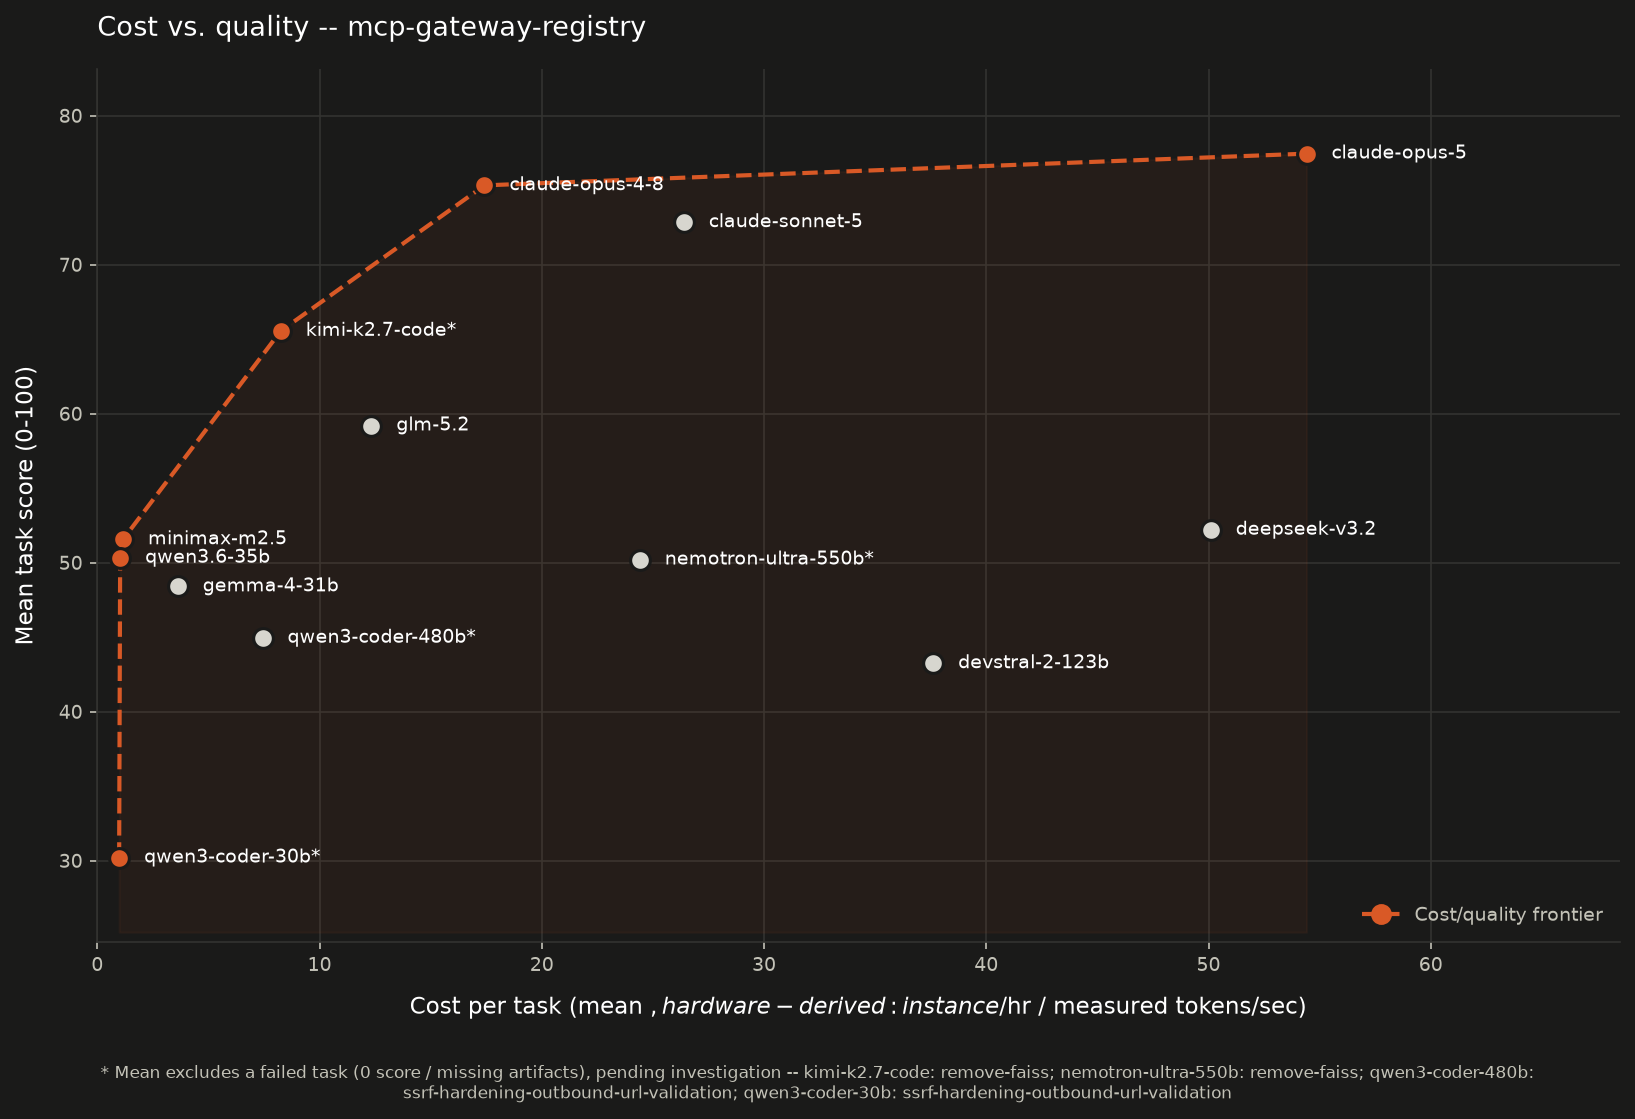
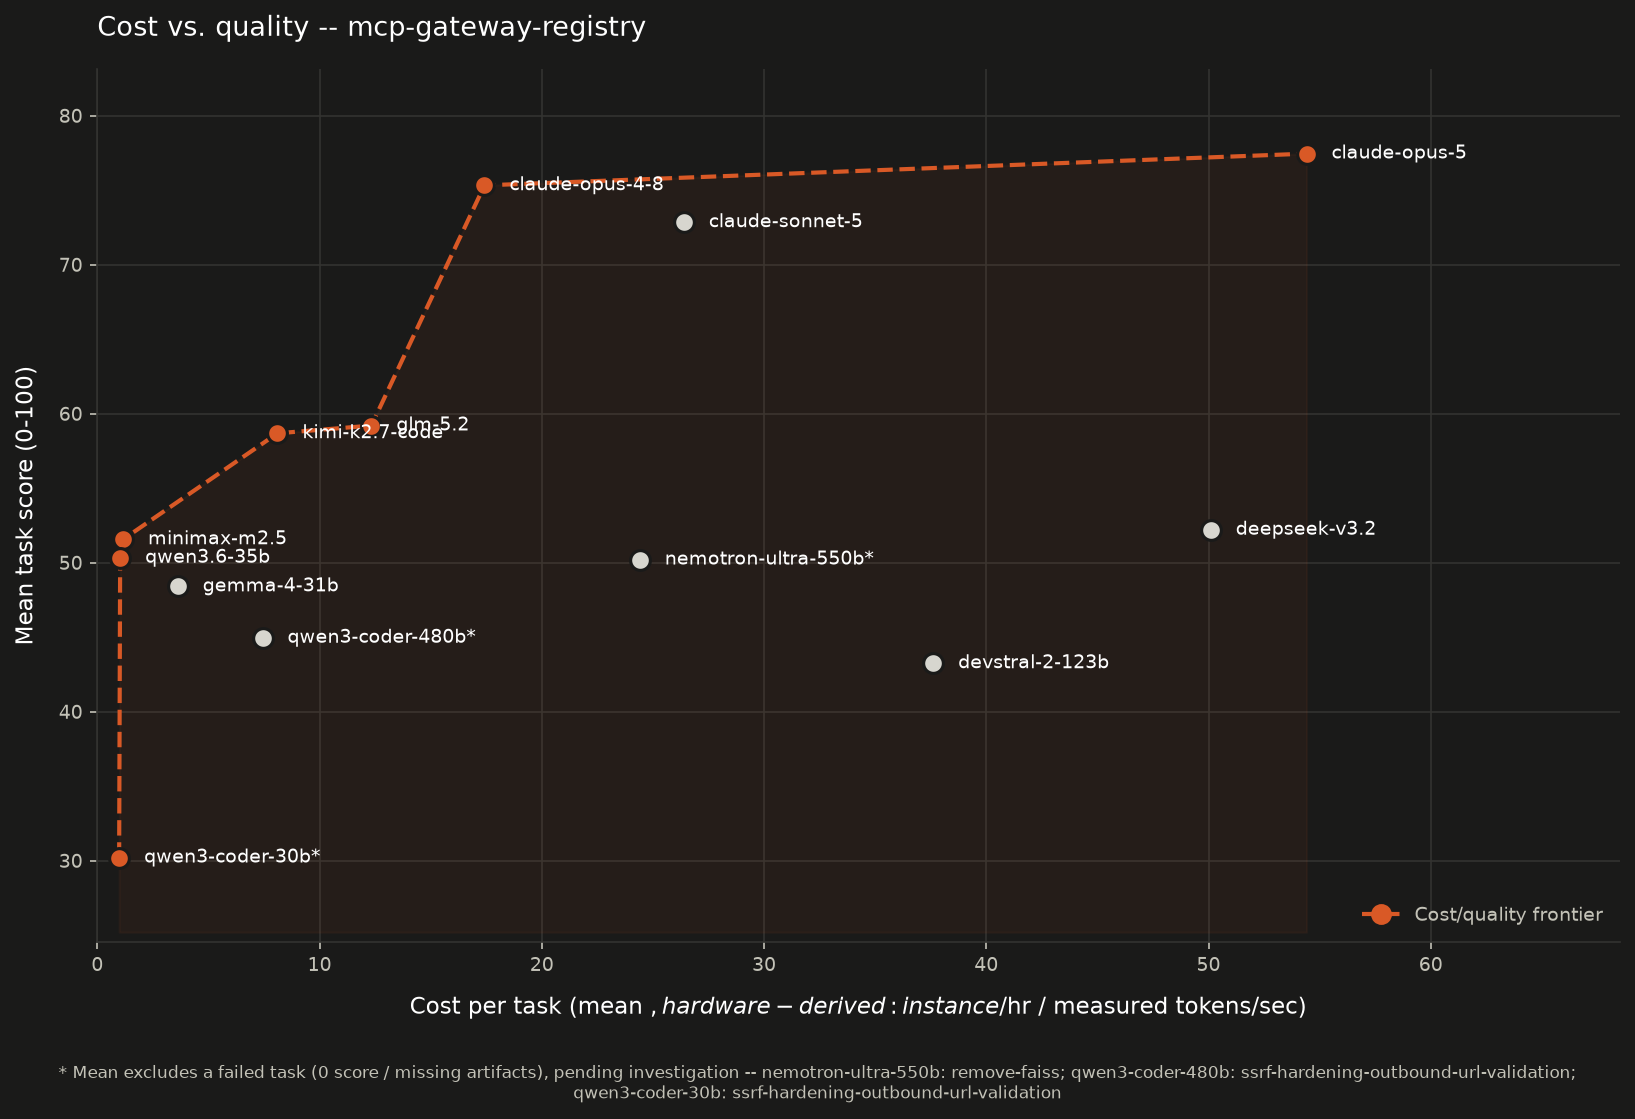
README: update Kimi-K2.7-Code to re-run results (58.68, 5/5, 0 failures)
PR #49 re-ran Kimi-K2.7-Code with a workflow prompt hint. All 5 tasks now
complete (previously 1 failure on remove-faiss), so:

- Score moves 65.55 (4/5) -> 58.68 (5/5). remove-faiss goes from a 0-score
  failure to a scored 55.2; per-task cells refreshed (migrate 67.6, remove-efs
  63.4, ssrf 56.4, remove-faiss 55.2, keycloak 50.8).
- Kimi now ranks below GLM-5.2 (59.20), so the results table column and the
  leaderboard row are reordered; GLM-5.2 is now the top open-weight model.
- Hardware note updated: two tasks (ssrf, remove-faiss) hit the 251 max-turns
  cap at the 128K window but still produced scoreable artifacts (no failure).
- Cost/quality frontier grows to 7 points (GLM-5.2 joins); both charts
  regenerated. Footnotes 5 and 6 and the narrative refreshed accordingly.

The k2.5 sanity-only directory (moonshotai.kimi-k2.5) is unaffected; it has no
benchmark results and does not appear in the README or chart.

diff --git a/README.md b/README.md
@@ -32,36 +32,36 @@ To show what the harness produces, we ran it against [agentic-community/mcp-gate
 
 ![Cost vs. quality scatter: mean estimated cost per task against mean task score, for the self-hosted models, with the cost/quality frontier highlighted](docs/images/cost-quality.png)
 
-Mean cost per task (x) against mean task score (y), one point per model. For **self-hosted** models with a throughput sweep, cost is **hardware-derived**: the model's blended cost per token (instance $/hr / measured tokens/sec, see [cost-per-task-methodology.md](self-hosted/vllm/cost-per-task-methodology.md)) times its *actual* input+output tokens per task, averaged over non-failed tasks. The three **Anthropic** points (Opus-5, Opus-4.8, Sonnet-5) are **real token-metered Bedrock bills**; **DeepSeek-V3.2**, **Nemotron-Ultra-550B**, and **Devstral-2-123B** have no sweep so use a token-priced estimate (`‡`) -- comparable as spend, different in kind. The cost/quality frontier runs **Qwen3-Coder-30B ($0.98 / 30.20) -> Qwen3.6-35B ($1.03 / 50.32) -> MiniMax-M2.5 ($1.16 / 51.56) -> Kimi-K2.7-Code ($8.26 / 65.55) -> Claude-Opus-4.8 ($17.42 / 75.32) -> Claude-Opus-5 ($54.41 / 77.45)**. Everything else is **dominated**: notably Claude-Sonnet-5 (72.84 but $26.39), GLM-5.2 (59.20 at $12.33, beaten by Kimi on both axes), Gemma-4-31B, Qwen3-Coder-480B ($7.43), Devstral-2-123B ($37.61 est.), Nemotron-Ultra-550B, and DeepSeek-V3.2 ($50.10 est., the priciest). Opus-5 is the top-quality point but its $54.41/task makes it the frontier's expensive extreme -- Opus-4.8 delivers nearly the same quality for a third of the cost. Qwen3-Coder-Next is omitted (not viable on this node). A model's mean excludes any 0-score failed task (footnote ⁵). Regenerate with `uv run scripts/plot_cost_quality.py` (add `--dark`) from `benchmarks/`.
+Mean cost per task (x) against mean task score (y), one point per model. For **self-hosted** models with a throughput sweep, cost is **hardware-derived**: the model's blended cost per token (instance $/hr / measured tokens/sec, see [cost-per-task-methodology.md](self-hosted/vllm/cost-per-task-methodology.md)) times its *actual* input+output tokens per task, averaged over non-failed tasks. The three **Anthropic** points (Opus-5, Opus-4.8, Sonnet-5) are **real token-metered Bedrock bills**; **DeepSeek-V3.2**, **Nemotron-Ultra-550B**, and **Devstral-2-123B** have no sweep so use a token-priced estimate (`‡`) -- comparable as spend, different in kind. The cost/quality frontier runs **Qwen3-Coder-30B ($0.98 / 30.20) -> Qwen3.6-35B ($1.03 / 50.32) -> MiniMax-M2.5 ($1.16 / 51.56) -> Kimi-K2.7-Code ($8.10 / 58.68) -> GLM-5.2 ($12.33 / 59.20) -> Claude-Opus-4.8 ($17.42 / 75.32) -> Claude-Opus-5 ($54.41 / 77.45)**. Everything else is **dominated**: notably Claude-Sonnet-5 (72.84 but $26.39), Gemma-4-31B, Qwen3-Coder-480B ($7.43), Devstral-2-123B ($37.61 est.), Nemotron-Ultra-550B, and DeepSeek-V3.2 ($50.10 est., the priciest). Opus-5 is the top-quality point but its $54.41/task makes it the frontier's expensive extreme -- Opus-4.8 delivers nearly the same quality for a third of the cost. Qwen3-Coder-Next is omitted (not viable on this node). A model's mean excludes any 0-score failed task (footnote ⁵). Regenerate with `uv run scripts/plot_cost_quality.py` (add `--dark`) from `benchmarks/`.
 
 ### Results -- 5 tasks x models
 
 All cells are task scores (0-100), the mean of the artifact totals per (task x model). These are **`/swe2` runs -- design *and* implementation** (six artifacts: the four design docs plus `patch.diff` + `implementation.md`), scored by the same judge (`codex exec`, `gpt-5.6-sol`, high reasoning effort). **Claude-Opus-5, Claude-Opus-4.8, and Claude-Sonnet-5** are **Path 1** results (Anthropic on Amazon Bedrock); every other column is **Path 3, self-hosted via vLLM** (hardware differs by model size -- see the row under the table). Columns are ordered by mean score. Bold = top score in row. Path 2 (open-weight on Bedrock via LiteLLM) is still **coming soon**.
 
-| Task | Diff. | Opus-5⁸ | Opus-4.8⁹ | Sonnet-5⁹ | Kimi-K2.7 | GLM-5.2⁶ | DeepSeek-V3.2 | MiniMax-M2.5 | Qwen3.6-35B | Nemotron-550B | Gemma-4-31B | Qwen3-Coder-480B⁷ | Devstral-2-123B | Qwen3-Coder-30B |
-|------|-------|--------:|----------:|----------:|----------:|---------:|--------------:|-------------:|------------:|--------------:|------------:|------------------:|----------------:|----------------:|
-| `remove-faiss` | Med | 69.6 | 69.2 | **72.8** | 0.0 ⁵ | 54.0 | 48.2 | 44.2 | 53.2 | 0.0 ⁵ | 38.0 | 45.6 | 40.2 | 32.0 |
-| `remove-efs-from-terraform-aws-ecs` | Med | **89.2** | 79.6 | 86.8 | 70.8 | 64.0 | 59.0 | 62.0 | 65.2 | 55.4 | 53.6 | 55.4 | 49.6 | 28.2 |
-| `ssrf-hardening-outbound-url-validation` | Med | 78.6 | **80.6** | 68.6 | 72.0 | 66.8 | 56.4 | 58.2 | 41.6 | 52.4 | 64.6 | 0.0 ⁵ | 47.2 | 0.0 ⁵ |
-| `migrate-ecs-env-vars-to-secrets-manager` | High | n/a⁸ | **70.6** | 66.0 | 67.2 | 54.2 | 51.2 | 53.6 | 46.4 | 50.0 | 48.4 | 41.0 | 38.2 | 30.8 |
-| `replace-keycloak-db-password-with-rds-iam` | High | 72.4 | **76.6** | 70.0 | 52.2 | 57.0 | 46.2 | 39.8 | 45.2 | 43.0 | 37.4 | 37.8 | 41.0 | 29.8 |
-| **Mean (excl. failed⁵)** | | **77.45** | 75.32 | 72.84 | 65.55 | 59.20 | 52.20 | 51.56 | 50.32 | 50.20 | 48.40 | 44.95 | 43.24 | 30.20 |
+| Task | Diff. | Opus-5⁸ | Opus-4.8⁹ | Sonnet-5⁹ | GLM-5.2⁶ | Kimi-K2.7 | DeepSeek-V3.2 | MiniMax-M2.5 | Qwen3.6-35B | Nemotron-550B | Gemma-4-31B | Qwen3-Coder-480B⁷ | Devstral-2-123B | Qwen3-Coder-30B |
+|------|-------|--------:|----------:|----------:|---------:|----------:|--------------:|-------------:|------------:|--------------:|------------:|------------------:|----------------:|----------------:|
+| `remove-faiss` | Med | 69.6 | 69.2 | **72.8** | 54.0 | 55.2 | 48.2 | 44.2 | 53.2 | 0.0 ⁵ | 38.0 | 45.6 | 40.2 | 32.0 |
+| `remove-efs-from-terraform-aws-ecs` | Med | **89.2** | 79.6 | 86.8 | 64.0 | 63.4 | 59.0 | 62.0 | 65.2 | 55.4 | 53.6 | 55.4 | 49.6 | 28.2 |
+| `ssrf-hardening-outbound-url-validation` | Med | 78.6 | **80.6** | 68.6 | 66.8 | 56.4 | 56.4 | 58.2 | 41.6 | 52.4 | 64.6 | 0.0 ⁵ | 47.2 | 0.0 ⁵ |
+| `migrate-ecs-env-vars-to-secrets-manager` | High | n/a⁸ | **70.6** | 66.0 | 54.2 | 67.6 | 51.2 | 53.6 | 46.4 | 50.0 | 48.4 | 41.0 | 38.2 | 30.8 |
+| `replace-keycloak-db-password-with-rds-iam` | High | 72.4 | **76.6** | 70.0 | 57.0 | 50.8 | 46.2 | 39.8 | 45.2 | 43.0 | 37.4 | 37.8 | 41.0 | 29.8 |
+| **Mean (excl. failed⁵)** | | **77.45** | 75.32 | 72.84 | 59.20 | 58.68 | 52.20 | 51.56 | 50.32 | 50.20 | 48.40 | 44.95 | 43.24 | 30.20 |
 
-The **Mean** row excludes any task that scored 0 -- a genuine model failure (missing artifacts), an unresolved anomaly rather than a quality measurement, so it is left out of the average **pending further investigation** and flagged with `⁵`. Per-task 0.0 cells are still shown so the failure is visible. No-failure (5/5): Opus-4.8, Sonnet-5, GLM-5.2, DeepSeek-V3.2, MiniMax-M2.5, Qwen3.6-35B, Gemma-4-31B, Devstral-2-123B. 4/5 (one failed): Kimi (`remove-faiss`), Nemotron-550B (`remove-faiss`), Qwen3-Coder-480B (`ssrf`), Qwen3-Coder-30B (`ssrf`). **Opus-5 ran 4 tasks** (`migrate` not run) -- its mean is over those 4; see `⁸`.
+The **Mean** row excludes any task that scored 0 -- a genuine model failure (missing artifacts), an unresolved anomaly rather than a quality measurement, so it is left out of the average **pending further investigation** and flagged with `⁵`. Per-task 0.0 cells are still shown so the failure is visible. No-failure (5/5): Opus-4.8, Sonnet-5, GLM-5.2, Kimi-K2.7-Code, DeepSeek-V3.2, MiniMax-M2.5, Qwen3.6-35B, Gemma-4-31B, Devstral-2-123B. 4/5 (one failed): Nemotron-550B (`remove-faiss`), Qwen3-Coder-480B (`ssrf`), Qwen3-Coder-30B (`ssrf`). **Opus-5 ran 4 tasks** (`migrate` not run) -- its mean is over those 4; see `⁸`.
 
-**Hardware:** Kimi-K2.7-Code (1.06T-param MoE, ~1 TB weights) ran on **8x H200** (`p5en.48xlarge`) at its full **131,072-token (128K) native context window**; GLM-5.2 (744B MoE / 40B active, ~750 GB FP8 weights), MiniMax-M2.5, Qwen3-Coder-480B (480B MoE / 35B active, FP8, TP=4), DeepSeek-V3.2, Nemotron-Ultra-550B, and Devstral-2-123B (123B dense, 256K window) also ran on **8x H200** (`p5en.48xlarge`); the three smaller Qwen models (3B-active MoE) and Gemma-4-31B (dense, ~63 GB) ran on a single **`g6e.12xlarge`** (4x L40S) at a 200K window. All via vLLM. Gemma-4-31B is dense and slow, so it used a raised per-task timeout (`--timeout-seconds 3600`); the default 1800s was not enough for it to return. Note Kimi's 128K window is below the harness's 200K agentic-coding guideline, yet it completed 4 of 5 tasks -- the one failure (`keycloak-rds-iam`) was a turn-cap timeout, not a context overflow.
+**Hardware:** Kimi-K2.7-Code (1.06T-param MoE, ~1 TB weights) ran on **8x H200** (`p5en.48xlarge`) at its full **131,072-token (128K) native context window**; GLM-5.2 (744B MoE / 40B active, ~750 GB FP8 weights), MiniMax-M2.5, Qwen3-Coder-480B (480B MoE / 35B active, FP8, TP=4), DeepSeek-V3.2, Nemotron-Ultra-550B, and Devstral-2-123B (123B dense, 256K window) also ran on **8x H200** (`p5en.48xlarge`); the three smaller Qwen models (3B-active MoE) and Gemma-4-31B (dense, ~63 GB) ran on a single **`g6e.12xlarge`** (4x L40S) at a 200K window. All via vLLM. Gemma-4-31B is dense and slow, so it used a raised per-task timeout (`--timeout-seconds 3600`); the default 1800s was not enough for it to return. Note Kimi's 128K window is below the harness's 200K agentic-coding guideline, yet it completed all 5 tasks with no failures -- two tasks (`ssrf`, `remove-faiss`) hit the max-turns cap (251) at that window but still produced scoreable artifacts, so neither is a context-overflow failure.
 
 ⁴ Qwen3-Coder-Next (79.6B, ~160 GB weights) **could not be benchmarked on the `g6e.12xlarge`.** There the weights leave room for only a ~16K context window, but agentic coding tasks need 100K-250K input tokens per request, so every task overflows the window on the first prompt. It needs a larger-VRAM node (e.g. `g6e.48xlarge`) to serve a >=200K window. The `/benchmark` skill enforces a 200K-minimum gate by default as a conservative guideline -- Kimi's 128K run shows a window somewhat below 200K can still work when the tasks fit, but 16K cannot. See [self-hosted/vllm/models/qwen3-coder-next.md](self-hosted/vllm/models/qwen3-coder-next.md).
 
-⁵ **Genuine model failures, scored 0.** On these `/swe2` runs the failures are: Kimi-K2.7-Code on `remove-faiss`, Nemotron-Ultra-550B on `remove-faiss`, Qwen3-Coder-480B on `ssrf`, and Qwen3-Coder-30B on `ssrf`. Each failed to produce a scorable artifact set (typically the model exhausted its turn budget on the implementation step without landing edits, so no `patch.diff`). The judge records a missing/empty-artifact folder as a 0 with a `MODEL FAILURE` verdict rather than dropping it. The **Mean** row is over the tasks each model completed, excluding those failures: 5/5 for Opus-4.8, Sonnet-5, GLM-5.2, DeepSeek-V3.2, MiniMax-M2.5, Qwen3.6-35B, Gemma-4-31B, Devstral-2-123B; 4/5 for Kimi, Nemotron-Ultra-550B, Qwen3-Coder-480B, and Qwen3-Coder-30B; Opus-5 ran 4/4 (the `migrate` task was not run -- see `⁸`).
+⁵ **Genuine model failures, scored 0.** On these `/swe2` runs the failures are: Nemotron-Ultra-550B on `remove-faiss`, Qwen3-Coder-480B on `ssrf`, and Qwen3-Coder-30B on `ssrf`. Each failed to produce a scorable artifact set (typically the model exhausted its turn budget on the implementation step without landing edits, so no `patch.diff`). The judge records a missing/empty-artifact folder as a 0 with a `MODEL FAILURE` verdict rather than dropping it. The **Mean** row is over the tasks each model completed, excluding those failures: 5/5 for Opus-4.8, Sonnet-5, GLM-5.2, Kimi-K2.7-Code, DeepSeek-V3.2, MiniMax-M2.5, Qwen3.6-35B, Gemma-4-31B, Devstral-2-123B; 4/5 for Nemotron-Ultra-550B, Qwen3-Coder-480B, and Qwen3-Coder-30B; Opus-5 ran 4/4 (the `migrate` task was not run -- see `⁸`).
 
-⁶ **GLM-5.2 ran with more headroom than the others -- not strictly apples-to-apples.** GLM-5.2 (`zai-org/GLM-5.2-FP8`, 744B MoE / 40B active, ~750 GB FP8 weights) was served on **8x H200** at a **300K context window** (~$12.33/task, see the cost section). It scores 59.20 over 5/5 -- behind Kimi (65.55) on the same box. Treat cross-instance comparisons as indicative until normalized.
+⁶ **GLM-5.2 ran with more headroom than the others -- not strictly apples-to-apples.** GLM-5.2 (`zai-org/GLM-5.2-FP8`, 744B MoE / 40B active, ~750 GB FP8 weights) was served on **8x H200** at a **300K context window** (~$12.33/task, see the cost section). It scores 59.20 over 5/5 -- narrowly ahead of Kimi (58.68) on the same box. Treat cross-instance comparisons as indicative until normalized.
 
 ⁷ **Qwen3-Coder-480B intermittently fails to produce artifacts -- the failure is nondeterministic, not task-specific.** Qwen3-Coder-480B (`Qwen/Qwen3-Coder-480B-A35B-Instruct-FP8`, 480B MoE / 35B active) was served on the **8x H200** node at **TP=4** (a block-FP8 MoE sharding constraint forces TP=4, not 8 -- see [its model guide](self-hosted/vllm/models/qwen3-coder-480b.md)), 200K window. Like the smaller Qwen3-Coder-30B, it periodically explores/edits the repo instead of completing the artifact chain (or exhausts the turn cap), scoring 0 on some tasks. It is a harness-conformance instability of a coder-tuned model, not a serving or context problem.
 
 ⁸ **Claude-Opus-5 ran only 4 of the 5 tasks** (`migrate-ecs-env-vars-to-secrets-manager` was not run), so its 77.45 mean is over those 4 -- not strictly comparable to the 5-task means until it is completed. It is a Path 1 (Bedrock) result like Opus-4.8/Sonnet-5, so its **$54.41/task is a real metered API bill** (its long, thorough implementations run up output tokens -- the most expensive per task measured). It tops the quality table but sits well right of the frontier on cost.
 
-⁹ **Claude-Opus-4.8 and Claude-Sonnet-5 are Path 1 (Bedrock) results -- their cost is a real metered API bill, not hardware-derived.** Both were run through Amazon Bedrock (no self-hosting), so their `$/task` ($17.42 and $26.39) is the actual token-metered charge (read from each run's `total_cost_usd`), whereas a self-hosted model's `$/task` is `instance $/hr / measured tokens/sec` x tokens (see the cost section). Comparable as "what you would pay," but different in provenance. Opus-4.8 is on the frontier at $17.42; the best open-weight model is Kimi-K2.7-Code (65.55) at ~$8/task. Sonnet-5 (72.84) is a close second on quality but pricier per task ($26.39 -- more verbose implementations, more output tokens), so it sits just off the frontier.
+⁹ **Claude-Opus-4.8 and Claude-Sonnet-5 are Path 1 (Bedrock) results -- their cost is a real metered API bill, not hardware-derived.** Both were run through Amazon Bedrock (no self-hosting), so their `$/task` ($17.42 and $26.39) is the actual token-metered charge (read from each run's `total_cost_usd`), whereas a self-hosted model's `$/task` is `instance $/hr / measured tokens/sec` x tokens (see the cost section). Comparable as "what you would pay," but different in provenance. Opus-4.8 is on the frontier at $17.42; the best open-weight model is GLM-5.2 (59.20) at $12.33/task, just ahead of Kimi-K2.7-Code (58.68) at ~$8/task. Sonnet-5 (72.84) is a close second on quality but pricier per task ($26.39 -- more verbose implementations, more output tokens), so it sits just off the frontier.
 
 ### Per-model leaderboard (so far)
 
@@ -72,8 +72,8 @@ Mean score is over the tasks each model completed (any 0-score failed task is ex
 | 1 | Claude-Opus-5⁸ | -- (Bedrock) | Amazon Bedrock (Path 1) | **77.45** | $54.41† | 4/5 |
 | 2 | Claude-Opus-4.8⁹ | -- (Bedrock) | Amazon Bedrock (Path 1) | **75.32** | $17.42† | 5/5 |
 | 3 | Claude-Sonnet-5⁹ | -- (Bedrock) | Amazon Bedrock (Path 1) | **72.84** | $26.39† | 5/5 |
-| 4 | Kimi-K2.7-Code | 1,058.6B (MoE) | 8x H200 | **65.55** | $8.26 | 4/5 |
-| 5 | GLM-5.2⁶ | 744B (40B) | 8x H200 | **59.20** | $12.33 | 5/5 |
+| 4 | GLM-5.2⁶ | 744B (40B) | 8x H200 | **59.20** | $12.33 | 5/5 |
+| 5 | Kimi-K2.7-Code | 1,058.6B (MoE) | 8x H200 | **58.68** | $8.10 | 5/5 |
 | 6 | DeepSeek-V3.2 | 671B (37B) | 8x H200 | **52.20** | $50.10‡ | 5/5 |
 | 7 | MiniMax-M2.5 | 230B (10B) | 8x H200 (TP=4) | **51.56** | $1.16 | 5/5 |
 | 8 | Qwen3.6-35B-A3B | 35.9B (3B) | g6e.12xlarge | **50.32** | $1.03 | 5/5 |
@@ -93,7 +93,7 @@ Mean score is over the tasks each model completed (any 0-score failed task is ex
 
 These are early self-hosted numbers on differing hardware; treat them as a starting point, not a final ranking. Cross-path comparisons wait until the Bedrock paths are run.
 
-- **The Anthropic models top the table:** Claude-Opus-5 (77.45, but over 4/5 -- see ⁸), Claude-Opus-4.8 (75.32 over 5/5), and Claude-Sonnet-5 (72.84 over 5/5) lead every self-hosted model by a clear margin -- the best open-weight is Kimi-K2.7-Code at 65.55 (~$8/task, 4/5). Opus-4.8 is the best-value frontier point at $17.42; Opus-5 edges it on quality but costs 3x as much ($54.41/task, its long implementations run up output tokens), and Sonnet-5 scores nearly as high but costs more per task ($26.39), so it sits just off the frontier.
+- **The Anthropic models top the table:** Claude-Opus-5 (77.45, but over 4/5 -- see ⁸), Claude-Opus-4.8 (75.32 over 5/5), and Claude-Sonnet-5 (72.84 over 5/5) lead every self-hosted model by a clear margin -- the best open-weight is GLM-5.2 at 59.20 ($12.33/task, 5/5), just ahead of Kimi-K2.7-Code at 58.68 (~$8/task, 5/5). Opus-4.8 is the best-value frontier point at $17.42; Opus-5 edges it on quality but costs 3x as much ($54.41/task, its long implementations run up output tokens), and Sonnet-5 scores nearly as high but costs more per task ($26.39), so it sits just off the frontier.
 - **Qwen3.6-35B is the value story:** on one mid-range GPU node (a single g6e.12xlarge) it scores 50.32 over all 5 tasks with no failures at a **hardware-derived $1.03 per task** -- roughly a median score at a small fraction of the frontier models' cost, and on the cost/quality frontier.
 - **MiniMax-M2.5 is the best quality-per-dollar in the upper-middle:** 51.56 over 5/5 at **$1.16/task** -- it beats the dense Gemma-4-31B ($3.62) and the much pricier Qwen3-Coder-480B ($7.43) and DeepSeek-V3.2 ($50.10 est.) while costing a fraction, anchoring the frontier just above Qwen3.6-35B.
 - **Cost is hardware-derived where a throughput sweep exists.** For the self-hosted models with a sweep, $/task is `instance $/hr / measured tokens/sec` times that model's real per-task token load; the three Anthropic rows are real Bedrock API bills; DeepSeek-V3.2, Nemotron-Ultra-550B, and Devstral-2-123B lack a sweep and fall back to a token-priced estimate (flagged `‡`). See [cost-per-task-methodology.md](self-hosted/vllm/cost-per-task-methodology.md).
